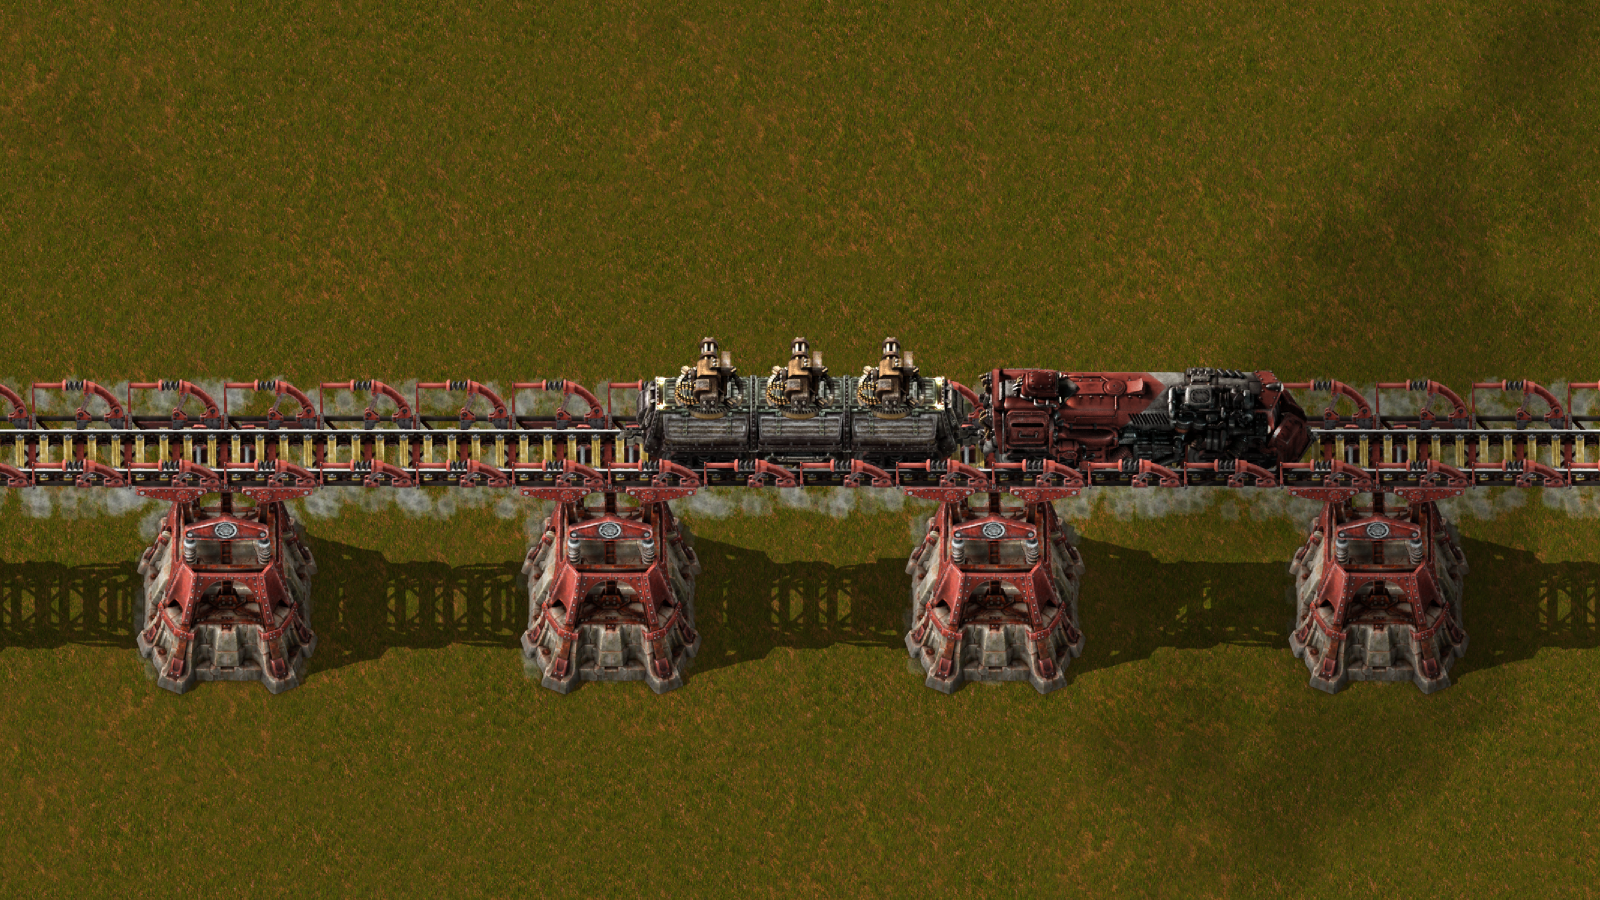
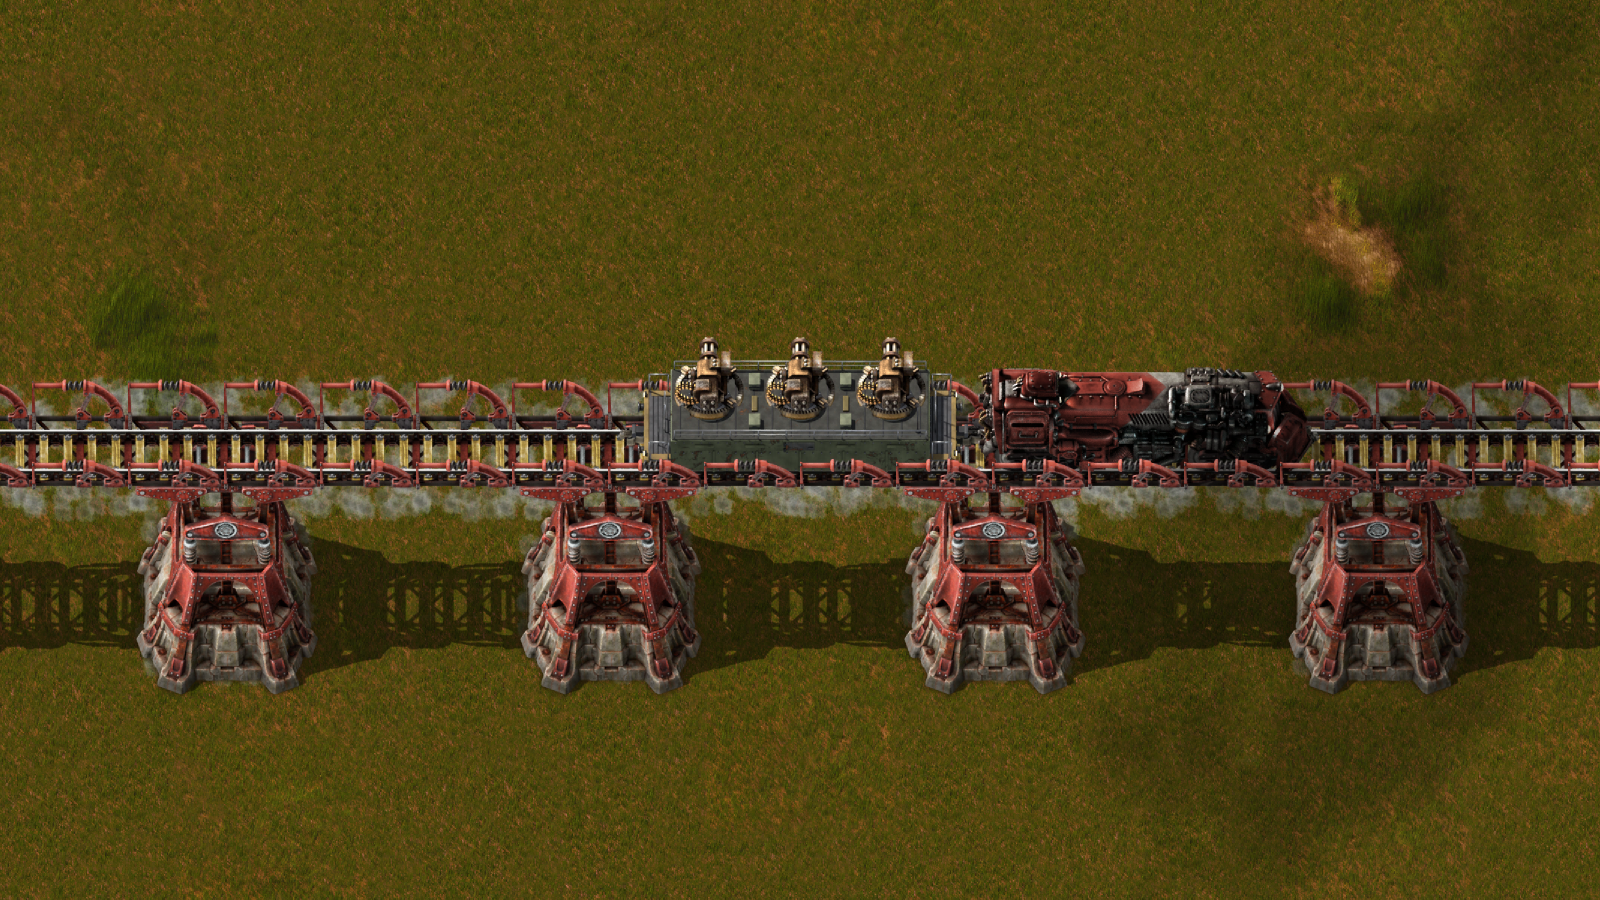
Dark deck render, release 0.2.0
Rendered on the desktop with the dark deck material; portal shots refreshed.

diff --git a/portal/description.md b/portal/description.md
@@ -1,7 +1,5 @@
 A cargo wagon with three machine guns on its roof. They shoot like gun turrets, also while the train is moving.
 
-**Preview release:** the wagon still uses the vanilla look. Its own armoured art is on the way.
-
 ![Machine gun wagon in action](https://raw.githubusercontent.com/vertexvaar/factorio-gun-turret-wagon/main/previews/portal/1-fighting.png)
 
 ## How it works
